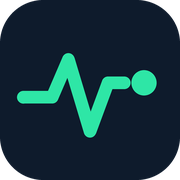
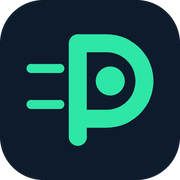
changed layout of payment with grid for company logs

Changed region(s): [[0.0833, 0.1667, 0.8889, 0.8333]]

diff --git a/src/components/ProviderPicker.tsx b/src/components/ProviderPicker.tsx
@@ -1,0 +1,101 @@
+import { useState } from 'react'
+import type { ProviderAccount } from '../lib/api'
+
+// Badge colours used until an official logo file is dropped into
+// public/providers/<slug>.png (see the README there).
+const BADGE: Record<string, { bg: string; fg: string; label: string }> = {
+  cpay: { bg: '#E8F0FB', fg: '#0B4DA2', label: 'C-Pay' },
+  mpesa: { bg: '#E6F4EA', fg: '#1E7B34', label: 'M-Pesa' },
+  ecocash: { bg: '#E5F1FA', fg: '#0A5C9E', label: 'EcoCash' },
+  khetsi: { bg: '#FBEDE4', fg: '#B4470F', label: 'Khetsi' },
+  mywallet: { bg: '#F1E9F8', fg: '#6A2C9B', label: 'MyWallet' },
+}
+
+const slugOf = (name: string) => name.toLowerCase().replace(/[^a-z0-9]/g, '')
+
+function ProviderMark({ name }: { name: string }) {
+  const slug = slugOf(name)
+  const [missing, setMissing] = useState(false)
+  const badge = BADGE[slug]
+
+  if (!missing) {
+    return (
+      <img
+        src={`/providers/${slug}.png`}
+        alt=""
+        onError={() => setMissing(true)}
+        style={{ maxWidth: '100%', maxHeight: 34, objectFit: 'contain', display: 'block' }}
+      />
+    )
+  }
+  return (
+    <span
+      style={{
+        fontWeight: 700,
+        fontSize: 17,
+        letterSpacing: -0.2,
+        color: badge?.fg ?? '#171a23',
+        background: badge?.bg ?? '#eef0f3',
+        borderRadius: 8,
+        padding: '6px 10px',
+      }}
+    >
+      {badge?.label ?? name}
+    </span>
+  )
+}
+
+export function ProviderPicker({
+  accounts,
+  value,
+  onChange,
+}: {
+  accounts: ProviderAccount[]
+  value: string
+  onChange: (id: string) => void
+}) {
+  // Several accounts for one provider are told apart by their identifier.
+  const perProvider: Record<string, number> = {}
+  for (const a of accounts) perProvider[a.provider_adapter_key] = (perProvider[a.provider_adapter_key] ?? 0) + 1
+
+  return (
+    <div
+      role="radiogroup"
+      aria-label="Provider"
+      style={{ display: 'grid', gridTemplateColumns: 'repeat(2, minmax(0, 1fr))', gap: 10 }}
+    >
+      {accounts.map((a) => {
+        const selected = a.id === value
+        return (
+          <button
+            key={a.id}
+            type="button"
+            role="radio"
+            aria-checked={selected}
+            aria-label={a.provider_name}
+            onClick={() => onChange(a.id)}
+            style={{
+              minHeight: 64,
+              padding: '10px 8px',
+              display: 'flex',
+              flexDirection: 'column',
+              alignItems: 'center',
+              justifyContent: 'center',
+              gap: 4,
+              background: '#fff',
+              border: selected ? '2px solid var(--accent)' : '2px solid var(--hairline)',
+              boxShadow: selected ? '0 0 0 3px rgba(76,95,213,0.18)' : 'none',
+              borderRadius: 12,
+              cursor: 'pointer',
+            }}
+          >
+            <ProviderMark name={a.provider_name} />
+            {perProvider[a.provider_adapter_key] > 1 && (
+              <span style={{ fontSize: 11, color: 'var(--text-dim)' }}>{a.account_identifier}</span>
+            )}
+          </button>
+        )
+      })}
+    </div>
+  )
+}

diff --git a/src/components/Logo.tsx b/src/components/Logo.tsx
@@ -1,0 +1,15 @@
+// The PayPulse mark: a P whose coin bowl gathers payment streams.
+// Small sizes use a simplified, heavier version so it stays legible.
+export function LogoMark({ size = 32 }: { size?: number }) {
+  const small = size <= 44
+  return (
+    <svg width={size} height={size} viewBox="0 0 100 100" role="img" aria-label="PayPulse" style={{ display: 'block', flexShrink: 0 }}>
+      <rect width="100" height="100" rx="24" fill="#0E1B2C" />
+      {small ? (
+        <g transform="translate(7.25 -2.00)"><path d="M36 78V26H52A21 21 0 0 1 52 68H36" fill="none" stroke="#2EE6A6" strokeLinecap="round" strokeLinejoin="round" strokeWidth="13" /><path d="M8 38H24" fill="none" stroke="#2EE6A6" strokeLinecap="round" strokeLinejoin="round" strokeWidth="7" /><path d="M8 62H24" fill="none" stroke="#2EE6A6" strokeLinecap="round" strokeLinejoin="round" strokeWidth="7" /><circle cx="54" cy="47" r="8.5" fill="#2EE6A6" /></g>
+      ) : (
+        <g transform="translate(7.25 -2.00)"><path d="M36 78V26H52A21 21 0 0 1 52 68H36" fill="none" stroke="#2EE6A6" strokeLinecap="round" strokeLinejoin="round" strokeWidth="10" /><path d="M10 40H26" fill="none" stroke="#2EE6A6" strokeLinecap="round" strokeLinejoin="round" strokeWidth="5" /><path d="M10 60H26" fill="none" stroke="#2EE6A6" strokeLinecap="round" strokeLinejoin="round" strokeWidth="5" /><circle cx="54" cy="47" r="8" fill="#2EE6A6" /></g>
+      )}
+    </svg>
+  )
+}

diff --git a/src/pages/TransactionPage.tsx b/src/pages/TransactionPage.tsx
@@ -1,4 +1,5 @@
 import { useEffect, useRef, useState } from 'react'
+import { ProviderPicker } from '../components/ProviderPicker'
 import { useAuth } from '../lib/auth'
 import { getDeviceInfo } from '../lib/device'
 import { getSavedPrinter, printReceiptText, printingAvailable } from '../lib/printer'
@@ -311,7 +312,7 @@ function FormView({
         style={inputStyle}
       />
 
-      <label htmlFor="txn-provider" style={{ ...labelStyle, marginTop: 18 }}>Provider</label>
+      <div style={{ ...labelStyle, marginTop: 18 }}>Provider</div>
       {!accounts ? (
         <div style={{ color: 'var(--text-dim)', fontSize: 14, padding: '12px 0' }}>Loading providers…</div>
       ) : accounts.length === 0 ? (
@@ -319,13 +320,7 @@ function FormView({
           No provider accounts set up for your shop yet.
         </div>
       ) : (
-        <select id="txn-provider" value={accountId} onChange={(e) => setAccountId(e.target.value)} style={inputStyle}>
-          {accounts.map((a) => (
-            <option key={a.id} value={a.id}>
-              {a.provider_name} — {a.account_identifier}
-            </option>
-          ))}
-        </select>
+        <ProviderPicker accounts={accounts} value={accountId} onChange={setAccountId} />
       )}
 
       <label htmlFor="txn-amount" style={{ ...labelStyle, marginTop: 18 }}>Amount (LSL)</label>

diff --git a/src/pages/EnrollPage.tsx b/src/pages/EnrollPage.tsx
@@ -1,6 +1,7 @@
 import { useState, type FormEvent } from 'react'
 import { enrollDevice, ApiError } from '../lib/api'
 import { readHardwareInfo, saveEnrollment } from '../lib/device'
+import { LogoMark } from '../components/Logo'
 
 export function EnrollPage({ onEnrolled }: { onEnrolled: () => void }) {
   const [code, setCode] = useState('')
@@ -36,9 +37,12 @@ export function EnrollPage({ onEnrolled }: { onEnrolled: () => void }) {
       }}
     >
       <div style={{ marginBottom: 32, textAlign: 'center' }}>
+        <div style={{ display: 'flex', justifyContent: 'center', marginBottom: 14 }}>
+          <LogoMark size={72} />
+        </div>
         <div style={{ color: '#fff', fontWeight: 700, fontSize: 26 }}>Register this device</div>
         <div style={{ color: 'var(--text-dim)', fontSize: 14, marginTop: 6 }}>
-          Ask your manager to register this device in the PayPulse portal, then enter the code they get.
+          Enter the enrolment code PayPulse gave you for this device.
         </div>
       </div>
 

diff --git a/src/pages/LoginPage.tsx b/src/pages/LoginPage.tsx
@@ -1,6 +1,7 @@
 import { useState, type FormEvent } from 'react'
 import { useAuth } from '../lib/auth'
 import { ApiError } from '../lib/api'
+import { LogoMark } from '../components/Logo'
 
 export function LoginPage() {
   const { login } = useAuth()
@@ -37,6 +38,9 @@ export function LoginPage() {
       }}
     >
       <div style={{ marginBottom: 40, textAlign: 'center' }}>
+        <div style={{ display: 'flex', justifyContent: 'center', marginBottom: 14 }}>
+          <LogoMark size={72} />
+        </div>
         <div style={{ color: '#fff', fontWeight: 700, fontSize: 26, letterSpacing: 0.2 }}>PayPulse</div>
         <div style={{ color: 'var(--text-dim)', fontSize: 14, marginTop: 2 }}>Point of sale</div>
       </div>
